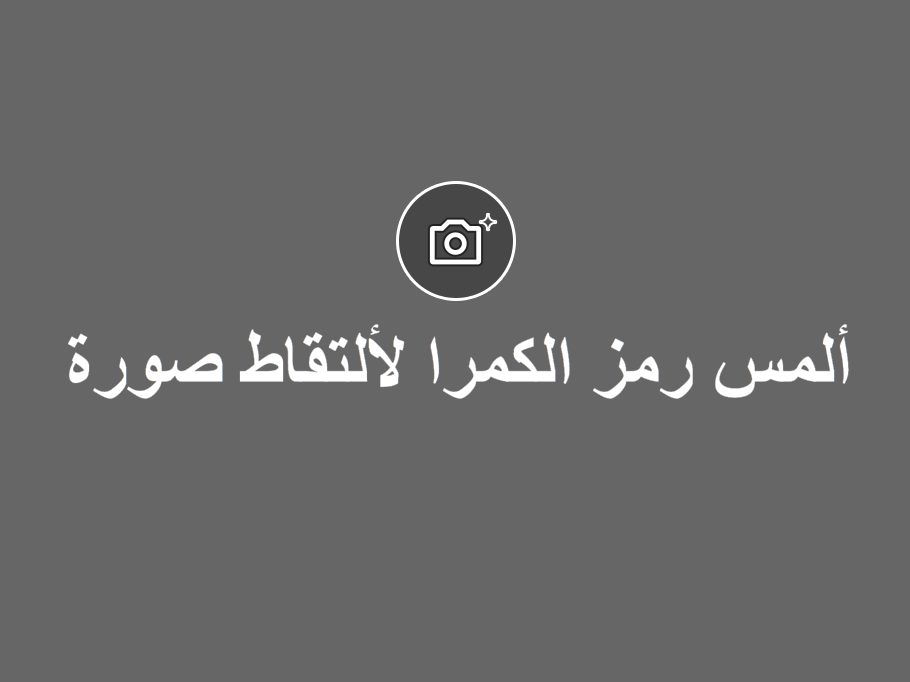
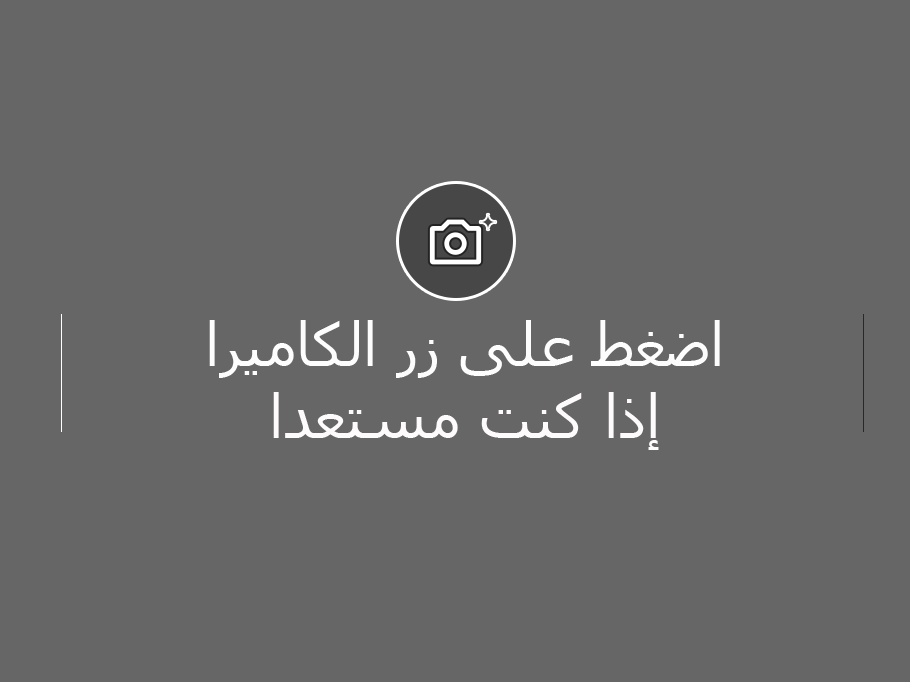
UI Fixes and Arab text fixes
1. drag & cursor fix
2. arab txts on Take a Photo

Changed region(s): [[0.0615, 0.4619, 0.9538, 0.6774]]

diff --git a/maincontents.htm b/maincontents.htm
@@ -81,7 +81,7 @@ UpdateSession(9);
           <div class="col-sm-6 nopadding">
             <a onclick="FC_ContentsCall('eat')" href="#" onmousedown="return false">
                     <img class="child nopadding" src="images/icon/eat-3.png">
-                    <div id="content_eat" class="icon-title" style="font-size: 30px;">مطاعم</div>
+                    <div id="content_eat" class="icon-title" style="font-size: 30px;">المطاعم</div>
                     
                 </a>
             
@@ -89,7 +89,7 @@ UpdateSession(9);
           <div class="col-sm-6 nopadding nomargin right" style="position: absolute;right: 0">
             <a onclick="FC_ContentsCall('shop')" href="#" style="position: absolute;right: 0" onmousedown="return false">
                   <img class="child nopadding" src="images/icon/shop.png">
-                  <div id="content_shop" class="icon-title" style="right: 0;font-size: 30px;">تسوق</div>
+                  <div id="content_shop" class="icon-title" style="right: 0;font-size: 30px;">التسوق</div>
                 </a>
               
           </div>
@@ -139,7 +139,7 @@ UpdateSession(9);
              
                 <a onclick="FC_ContentsCall('PhotoPrinting','')" href="#" onmousedown="return false">
                   <img class="child nopadding" src="images/icon/PP.png">
-                  <div id="content_selfie" class="icon-title" style="font-size: 30px;">تصوير</div>
+                  <div id="content_selfie" class="icon-title" style="font-size: 30px;">إلتقاط صورة</div>
                 </a>
              
 
@@ -229,7 +229,7 @@ UpdateSession(9);
       </div>
     </div>
 
-    <img src="images/bottom-line.png">
+    <img src="images/bottom-line.png" onmousedown="return false">
 
   </footer>
   <div id="dialog-overlay"></div>
@@ -394,7 +394,7 @@ UpdateSession(9);
           text-shadow: 0 -1px 1px rgba(0,0,0,0.25);
           border-bottom: 1px solid rgba(0,0,0,0.25);
           position: relative;
-          cursor: pointer;
+          /*cursor: pointer;*/
           
         }
 

diff --git a/Contents/RobotAvatar/index.htm b/Contents/RobotAvatar/index.htm
@@ -33,7 +33,7 @@
       $('#change-ar').removeClass('active');
       $('.title').text("Robot Avatar");
       $('#shot img').attr("src","Image/avatar_shot_nor.png");
-      $('.deltext').css({"font-size":"32px", "line-height":"32px"});
+      $('.deltext').css({"font-size":"32px", "line-height":"32px","font-family":"Bukra-Regular"});
       $('.deltext').text("If you want to delete the Avatar now press the 'DELETE' button.")
      
     $('#delete').attr('src','Image/Avatar_delete_none.png');
@@ -49,8 +49,10 @@
       $('#change-us').removeClass('active');
       $('#change-ar').addClass('active');
       $('.title').text("الصّورة الرّمزية");
-      $('.deltext').css({"font-size":"44px", "line-height":"31px"});
-      $('.deltext').text("إذا كنت ترغب في حذف الصورة الرمزية الآن اضغط على زر '' ديليت ''");
+      $('.deltext').css({"font-size":"44px", "line-height":"31px", "font-family":"Bukra-Regular"});
+      $('.deltext').text("إذا كنت ترغب في حذف <br>
+                          الصورة الرمزية الآن <br>
+                          اضغط على زر &quot;حذف&quot;");
     
       $('#shot img').attr('src','Image/avatar_shot_nor_ar.png');
       $('#delete').attr('src','Image/Avatar_delete_none_ar.png');
@@ -90,11 +92,12 @@
 	</div>
 
 	<div class="bg">
-		<h1 class="title" style="font-family:Bukra-Regular;">الصّورة الرّمزية</h1>
+		<h1 class="title" style="">الصّورة الرّمزية</h1>
 		<img src="Image/bg.png">
-		<p class="deltext" style="font-family:Bukra-Regular;">إذا كنت ترغب في حذف الصورة الرمزية الآن اضغط على زر '' ديليت ''</p>
+		<p class="deltext" style="">إذا كنت ترغب في حذف  الصورة الرمزية الآن  اضغط على زر "حذف"</p>
 	</div> 
 	
+
 	<!--<div class="home">
 		<img src="Image/Home_Button.png" onclick="Home()">
 	</div>-->

diff --git a/Contents/eat/index-us.htm b/Contents/eat/index-us.htm
@@ -34,7 +34,7 @@
 
 <style>
   .bmg{background-image: none;height: 1158px;}
-  .img-home {position: absolute;top: -60px;z-index: 99;height: 62px;cursor: pointer; cursor: hand;}
+  .img-home {position: absolute;top: -60px;z-index: 99;height: 62px;/*cursor: pointer; cursor: hand;*/}
   .wrap{padding-top: 90px;}
   .part1{ background-color: whitesmoke;height: 660px;margin-top: -22px;margin-left: -15px;}
   .part2{
@@ -75,7 +75,7 @@
         padding:30px 45px;
         border-top:1px solid #008a97;
         border-bottom:1px solid #008a97;
-        cursor:pointer;
+       /* cursor:pointer;*/
         background-color:#008a97;
         color:#ffffff;
         text-align:left;
@@ -88,7 +88,7 @@
         padding:30px 80px;
         border-top:1px solid #153F65;
         border-bottom:1px solid #236b8e;
-        cursor:pointer;
+        /*cursor:pointer;*/
         background-color:#153F65;
         color:#ffffff;
         text-align:left;
@@ -245,7 +245,7 @@ a.button {
   text-shadow: 0 -1px 1px rgba(0,0,0,0.25);
   border-bottom: 1px solid rgba(0,0,0,0.25);
   position: relative;
-  cursor: pointer;
+ /* cursor: pointer;*/
   
 }
 

diff --git a/Contents/eat/index.htm b/Contents/eat/index.htm
@@ -114,7 +114,7 @@ UpdateSession(1);
         padding:30px 45px;
         border-top:1px solid #154055;
         border-bottom:1px solid #236b8e;
-        cursor:pointer;
+        /*cursor:pointer;*/
         background-color:#008a97;
         color:#ffffff;
         text-align:right;
@@ -127,7 +127,7 @@ UpdateSession(1);
         padding:30px 80px;
         border-top:1px solid #153F65;
         border-bottom:1px solid #236b8e;
-        cursor:pointer;
+        /*cursor:pointer;*/
         background-color:#153F65;
         color:#ffffff;
         text-align:left;
@@ -295,7 +295,7 @@ a.button {
   text-shadow: 0 -1px 1px rgba(0,0,0,0.25);
   border-bottom: 1px solid rgba(0,0,0,0.25);
   position: relative;
-  cursor: pointer;
+  /*cursor: pointer;*/
   
 }
 

diff --git a/Contents/shop/index.htm b/Contents/shop/index.htm
@@ -163,7 +163,7 @@
         font-weight: 600;
         padding:20px 45px;
        
-        cursor:pointer;
+        /*cursor:pointer;*/
         background-color:#008a97;
         color:#ffffff;
         text-align:right;
@@ -178,7 +178,7 @@
         padding:30px 80px;
         border-top:1px solid #153F65;
         border-bottom:1px solid #236b8e;
-        cursor:pointer;
+        /*cursor:pointer;*/
         background-color:#153F65;
         color:#ffffff;
         text-align:left;
@@ -351,7 +351,7 @@ a.button {
   text-shadow: 0 -1px 1px rgba(0,0,0,0.25);
   border-bottom: 1px solid rgba(0,0,0,0.25);
   position: relative;
-  cursor: pointer;
+  /*cursor: pointer;*/
   
 }
 

diff --git a/Contents/shop/index-en.htm b/Contents/shop/index-en.htm
@@ -159,7 +159,7 @@
         font-weight: 600;
         padding:20px 45px;
        
-        cursor:pointer;
+        /*cursor:pointer;*/
         background-color:#008a97;
         color:#ffffff;
         text-align:left;
@@ -172,7 +172,7 @@
         padding:30px 80px;
         border-top:1px solid #153F65;
         border-bottom:1px solid #236b8e;
-        cursor:pointer;
+        /*cursor:pointer;*/
         background-color:#153F65;
         color:#ffffff;
         text-align:left;
@@ -338,7 +338,7 @@ a.button {
   text-shadow: 0 -1px 1px rgba(0,0,0,0.25);
   border-bottom: 1px solid rgba(0,0,0,0.25);
   position: relative;
-  cursor: pointer;
+  /*cursor: pointer;*/
   
 }
 

diff --git a/css/style_riyadh.css b/css/style_riyadh.css
@@ -5,7 +5,7 @@
       body{
         /*margin: 0 0 100px;*/
         line-height: 0.428571;
-        cursor: pointer;
+        /*cursor: pointer;*/
       }
       footer{
        /* position:absolute;*/
@@ -168,7 +168,7 @@
         margin-left: 16px;
         margin-bottom: 0px;
         font-stretch: ultra-expanded;
-        cursor: pointer; cursor: hand;
+        /*cursor: pointer; cursor: hand;*/
     }
 
     .nav>li>a {

diff --git a/css/Main.css b/css/Main.css
@@ -144,3 +144,5 @@ display: inline-block;
                   user-select: none; /* Non-prefixed version, currently
                                         supported by Chrome and Opera */
       }
+
+      /*body,img,div,a,#leftmenu { cursor: none; }*/

diff --git a/Contents/PhotoPrinting/index.htm b/Contents/PhotoPrinting/index.htm
@@ -94,7 +94,7 @@
           z-index: 99;
           margin-top: 28px;
           height: 66px;
-           cursor: pointer; cursor: hand;
+          /* cursor: pointer; cursor: hand;*/
     }
       .navigate{
         font-size: 25px;

diff --git a/Contents/TerminalMap/index.htm b/Contents/TerminalMap/index.htm
@@ -44,7 +44,7 @@
          position: absolute;
           z-index: 99;
           margin-top: -64px;
-           cursor: pointer;
+           /*cursor: pointer;*/
           height: 66px;
     }
     #img{width: 1042px;}

diff --git a/Contents/eat/css/vertical-tabs.css b/Contents/eat/css/vertical-tabs.css
@@ -26,7 +26,7 @@
 	padding: 0.6em 1em;
 }
 .ui-tabs-vertical .ui-tabs-nav li a:hover {
-	cursor: pointer;
+	/*cursor: pointer;*/
 }
 .ui-tabs-vertical .ui-tabs-nav li.ui-state-active {
 	margin-bottom: 0.2em;

diff --git a/Contents/BoardingPass/index.htm b/Contents/BoardingPass/index.htm
@@ -42,7 +42,7 @@
       z-index: 99;
       margin-top: -64px;
       height: 66px;
-      cursor: pointer; 
+      /*cursor: pointer;*/ 
     }
    
    .wrapper1
